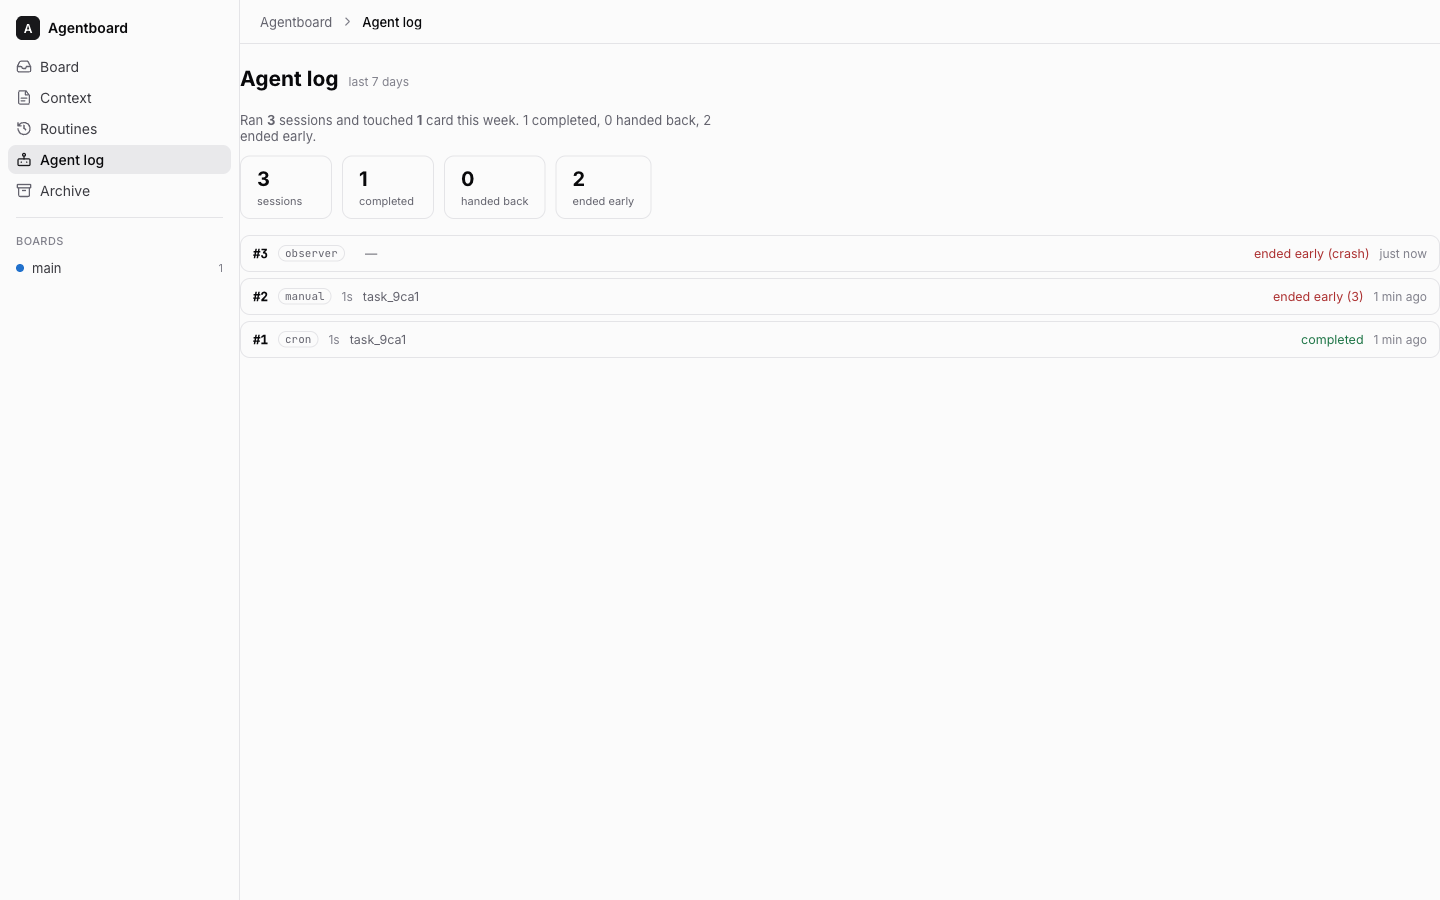
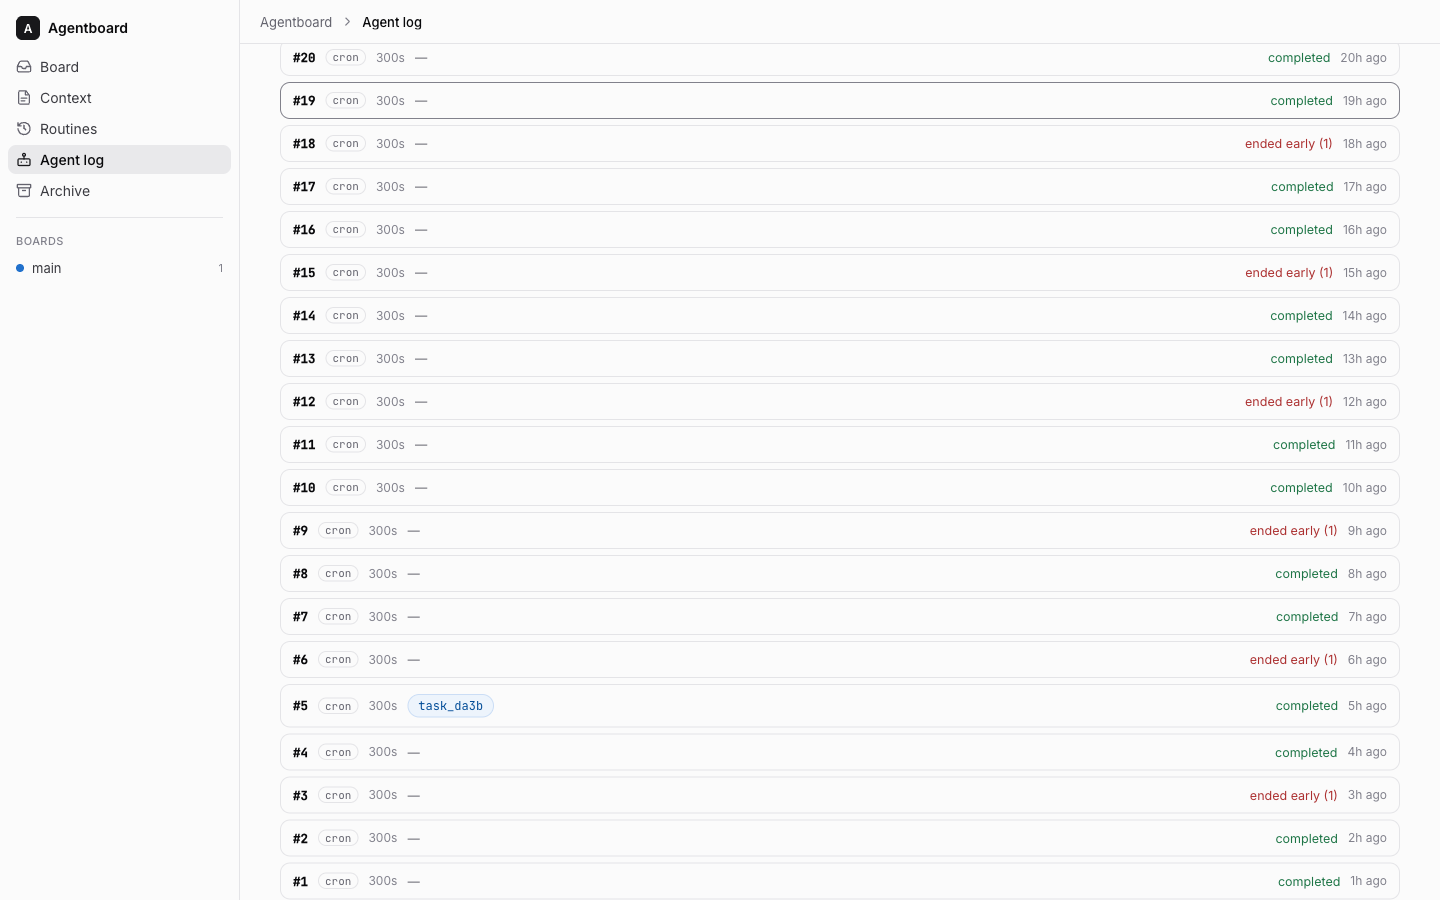
fix(web): scrollable sessions views + clickable card chips (Critical/Important)
Whole-branch review Fix 1 + Fix 3 for the agentlog/live-tail work:

- Neither #/sessions nor #/session/:id was user-scrollable — #view is
  overflow:hidden and both views rendered bare into it, unlike every other
  view (card.js's .detail-scroll etc). Added a shared .page-scroll wrapper,
  mirroring .detail-scroll's approach, to both views. session.js's
  follow-disable listener now targets that wrapper instead of dead-code
  #view. sessions.js preserves the wrapper's scrollTop across its blind
  route()-driven rerenders on realtime ticks (read the old wrapper before
  overwriting innerHTML, restore after) — this also required app.js's
  route() to stop unconditionally blanking #view before dispatch, since
  that blanking ran before renderSessions ever saw the old DOM.
- Card ids in a session row are now real, independently clickable
  <a class="cardref-chip"> links via a stretched-link pattern (.al-row is a
  div with an absolutely-positioned full-cover .al-row-link as the row's
  base target; the chips sit above it via z-index) — nesting them inside a
  row-level <a> would have been invalid HTML.
- Cosmetic (flagged in the task-3 report): a live session's header no
  longer repeats "running" twice, and a crashed row no longer shows an
  empty "—" duration next to "ended early (crash)" — outcome alone carries
  the state in both cases.

Updated screenshots reflect the new scrollable/clickable state.

diff --git a/web/js/views/session.js b/web/js/views/session.js
@@ -32,12 +32,10 @@ export async function renderSession(root, { id }) {
   stopSessionPolling();
   const { session, steps, observation, tail } = await api.session(id);
   const live = session.live === true; // annotated by the API: open row + confirmed lock
-  const dur =
-    session.ended_at !== null
-      ? `${Math.max(1, Math.round((new Date(session.ended_at) - new Date(session.started_at)) / 1000))}s`
-      : live
-        ? 'running'
-        : '—';
+  // Duration and outcome would otherwise both say "running" while live, or
+  // pair an empty "—" placeholder with "ended early (crash)" — in both cases
+  // the state is fully carried by `outcome` alone, so `dur` is omitted then.
+  const dur = session.ended_at !== null ? `${Math.max(1, Math.round((new Date(session.ended_at) - new Date(session.started_at)) / 1000))}s` : null;
   const outcome =
     session.ended_at === null
       ? live
@@ -48,9 +46,10 @@ export async function renderSession(root, { id }) {
         : `ended early (${session.exit_status ?? 'crash'})`;
   root.innerHTML = `
     ${crumb([{ text: 'Agentboard', href: '#/' }, { text: `session #${session.id}`, strong: true }])}
+    <div class="page-scroll">
     <div class="session-head">
       <span class="rt-sched">${esc(triggerLabel(session.trigger))}</span>
-      <span class="mut-sm" title="${esc(absTime(session.started_at))}">${esc(relTime(session.started_at))} · ${esc(dur)} · <span id="s-outcome">${esc(outcome)}</span></span>
+      <span class="mut-sm" title="${esc(absTime(session.started_at))}">${esc(relTime(session.started_at))}${dur ? ` · ${esc(dur)}` : ''} · <span id="s-outcome">${esc(outcome)}</span></span>
       ${session.cards.map((c) => `<a class="cardref-chip" href="#/card/${esc(c)}">${esc(c)}</a>`).join('')}
       ${live ? `<span class="al-live" id="s-live"><span class="live-dot"></span><span id="s-beat">live</span></span>
       <button type="button" class="follow-btn on" id="s-follow">follow</button>` : ''}
@@ -58,7 +57,8 @@ export async function renderSession(root, { id }) {
     <div class="session-steps" id="s-steps">
       ${steps.map(stepHtml).join('') || '<p class="mut-sm">Empty transcript.</p>'}
     </div>
-    ${observation ? `<div class="observation"><h3>Observation</h3><pre>${esc(observation)}</pre></div>` : ''}`;
+    ${observation ? `<div class="observation"><h3>Observation</h3><pre>${esc(observation)}</pre></div>` : ''}
+    </div>`;
   if (!live) return;
 
   let cursor = { offset: tail.offset, n: tail.n };
@@ -72,11 +72,11 @@ export async function renderSession(root, { id }) {
     if (follow) list.lastElementChild?.scrollIntoView({ block: 'end' });
   };
   // Scrolling up is an implicit "stop following"; the button turns it back on.
-  // #view is the real scroll container (design's per-view scroll pattern,
-  // same as card.js's .detail-scroll) — an at-bottom check means the
-  // programmatic scrollIntoView above never disables follow (it lands at the
-  // bottom, so this is a no-op) while a user scrolling up does.
-  const scroller = document.getElementById('view');
+  // .page-scroll is the real scroll container (this view's own scroll
+  // wrapper, same pattern as card.js's .detail-scroll) — an at-bottom check
+  // means the programmatic scrollIntoView above never disables follow (it
+  // lands at the bottom, so this is a no-op) while a user scrolling up does.
+  const scroller = root.querySelector('.page-scroll');
   const onScroll = () => {
     if (follow && scroller.scrollTop + scroller.clientHeight < scroller.scrollHeight - 40) {
       follow = false;

diff --git a/web/js/views/sessions.js b/web/js/views/sessions.js
@@ -22,6 +22,12 @@ const durText = (s) =>
 const tile = (n, label) => `<div class="al-tile"><span class="n">${n}</span><span class="lbl">${label}</span></div>`;
 
 export async function renderSessions(root) {
+  // Blind re-renders on every realtime tick (no per-view hook here — the
+  // whole list is cheap to recompute) would otherwise reset scroll on every
+  // poll; read the old wrapper's position before it's replaced and restore
+  // it on the new one below. No module state needed — root is the same
+  // #view element across renders.
+  const prevScroll = root.querySelector('.page-scroll')?.scrollTop ?? 0;
   const { sessions } = await api.sessions();
   const weekAgo = new Date(Date.now() - 7 * 86_400_000).toISOString();
   const week = sessions.filter((s) => s.started_at >= weekAgo);
@@ -31,6 +37,7 @@ export async function renderSessions(root) {
   const cards = new Set(week.flatMap((s) => s.cards)).size;
   root.innerHTML = `
     ${crumb([{ text: 'Agentboard', href: '#/' }, { text: 'Agent log', strong: true }])}
+    <div class="page-scroll">
     <div class="al-head"><h2>Agent log</h2><span class="mut-sm">last 7 days</span></div>
     <p class="al-summary">Ran <strong>${week.length}</strong> session${week.length === 1 ? '' : 's'} and touched <strong>${cards}</strong> card${cards === 1 ? '' : 's'} this week. ${completed} completed, ${handed} handed back, ${early} ended early.</p>
     <div class="al-tiles">${tile(week.length, 'sessions')}${tile(completed, 'completed')}${tile(handed, 'handed back')}${tile(early, 'ended early')}</div>
@@ -38,17 +45,26 @@ export async function renderSessions(root) {
       ${sessions
         .map((s) => {
           const o = sessionOutcome(s);
-          return `<a class="al-row" href="#/session/${s.id}">
+          // A row is one big click target (stretched-link: an absolutely
+          // positioned cover <a>, since nesting the card links inside a
+          // row-level <a> would be invalid HTML) — card ids are real links
+          // rendered above that cover link so they stay independently
+          // clickable.
+          return `<div class="al-row">
+            <a class="al-row-link" href="#/session/${s.id}" aria-label="session #${s.id}"></a>
             <span class="al-id">#${s.id}</span>
             <span class="rt-sched">${esc(triggerLabel(s.trigger))}</span>
             ${s.live ? '<span class="al-live"><span class="live-dot"></span>live</span>' : `<span class="mut-sm">${esc(durText(s))}</span>`}
-            <span class="al-cards">${s.cards.length ? s.cards.map((c) => esc(c)).join(', ') : '—'}</span>
+            <span class="al-cards">${s.cards.length ? s.cards.map((c) => `<a class="cardref-chip" href="#/card/${esc(c)}">${esc(c)}</a>`).join(' ') : '—'}</span>
             ${s.handed_back.length ? `<span class="al-handed">${s.handed_back.length} handed back</span>` : ''}
             <span class="al-outcome ${o.cls}">${esc(o.text)}</span>
             ${s.observed ? `<span class="al-eye" title="observed">${icons.check(12, 'var(--mut)')}</span>` : ''}
             <span class="mut-sm" title="${esc(absTime(s.started_at))}">${esc(relTime(s.started_at))}</span>
-          </a>`;
+          </div>`;
         })
         .join('') || '<p class="mut-sm">No sessions yet.</p>'}
+    </div>
     </div>`;
+  const scroller = root.querySelector('.page-scroll');
+  if (scroller) scroller.scrollTop = prevScroll;
 }

diff --git a/web/style.css b/web/style.css
@@ -275,6 +275,8 @@ input, textarea, select { font: inherit; color: var(--ink); }
 .detail { flex: 1; min-height: 0; display: flex; }
 .detail-main { flex: 1; min-width: 0; display: flex; flex-direction: column; }
 .detail-scroll { flex: 1; min-height: 0; overflow-y: auto; padding: 28px 40px 0; }
+/* shared scroll wrapper for simpler views (sessions overview, session detail) — same pattern as .detail-scroll */
+.page-scroll { flex: 1; min-height: 0; overflow-y: auto; padding: 28px 40px 0; }
 .detail-inner { max-width: 880px; width: 100%; margin: 0 auto; display: flex; flex-direction: column; }
 .detail h1 { margin: 0; font-size: 24px; font-weight: 600; line-height: 1.25; letter-spacing: -0.01em; text-wrap: pretty; }
 .detail-body { margin: 10px 0 0; font-size: 15px; line-height: 1.55; color: var(--ink-3); }
@@ -522,10 +524,12 @@ input, textarea, select { font: inherit; color: var(--ink); }
 .al-tile .n { display: block; font-size: 20px; font-weight: 700; }
 .al-tile .lbl { font-size: 11px; color: var(--mut); }
 .al-list { display: flex; flex-direction: column; gap: 6px; }
-.al-row { display: flex; align-items: center; gap: 10px; background: var(--card); border: 1px solid var(--line); border-radius: 10px; padding: 9px 12px; font-size: 12.5px; color: inherit; text-decoration: none; }
+.al-row { position: relative; display: flex; align-items: center; gap: 10px; background: var(--card); border: 1px solid var(--line); border-radius: 10px; padding: 9px 12px; font-size: 12.5px; color: inherit; text-decoration: none; }
 .al-row:hover { border-color: var(--mut-2); }
+.al-row-link { position: absolute; inset: 0; z-index: 1; } /* stretched-link: row's base click target, below the card-id chips */
 .al-id { font-family: 'JetBrains Mono', ui-monospace, monospace; font-weight: 600; }
 .al-cards { flex: 1; min-width: 0; overflow: hidden; text-overflow: ellipsis; white-space: nowrap; color: var(--mut); }
+.al-cards .cardref-chip { position: relative; z-index: 2; } /* above .al-row-link so a card id stays independently clickable */
 .al-handed { font-size: 11px; color: oklch(0.44 0.13 45); }
 .al-outcome.ok { color: oklch(0.5 0.11 155); }
 .al-outcome.crash { color: oklch(0.5 0.16 25); }
@@ -772,7 +776,7 @@ input, textarea, select { font: inherit; color: var(--ink); }
   /* card detail */
   .detail { flex-direction: column; }
   .props { display: none; }
-  .detail-scroll { padding: 16px 16px 0; overflow: visible; }
+  .detail-scroll, .page-scroll { padding: 16px 16px 0; overflow: visible; }
   .detail h1 { font-size: 19px; line-height: 1.3; }
   .detail-body { font-size: 14px; }
   .composer-wrap { padding: 16px; }

diff --git a/web/js/app.js b/web/js/app.js
@@ -95,7 +95,11 @@ async function route() {
   try {
     if (!boards.length) boards = (await api.boards()).boards;
     renderSidebar(r);
-    view.innerHTML = '';
+    // The sessions overview preserves its own scroll position across the
+    // blind rerenders route() does on every changed tick — it needs the OLD
+    // .page-scroll still in the DOM to read scrollTop from before it
+    // overwrites it, so it alone is exempted from the blank-first below.
+    if (r.name !== 'sessions') view.innerHTML = '';
     if (r.name === 'all') await renderAllBoards(view, { boards });
     else if (r.name === 'board') await renderBoard(view, { boards, boardId: r.boardId });
     else if (r.name === 'archive') await renderArchive(view, { boards, boardId: r.boardId });
